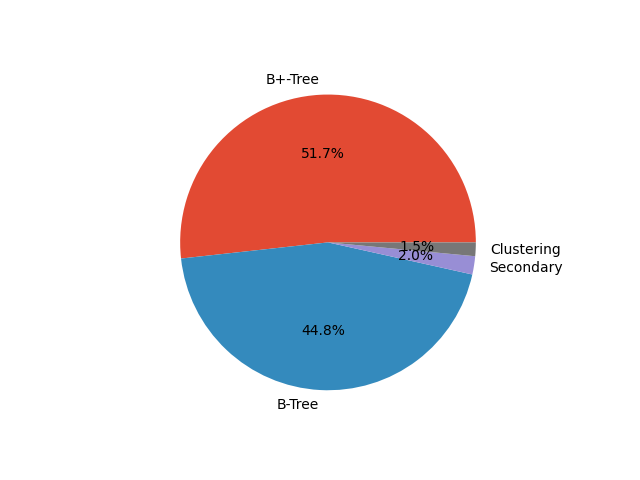
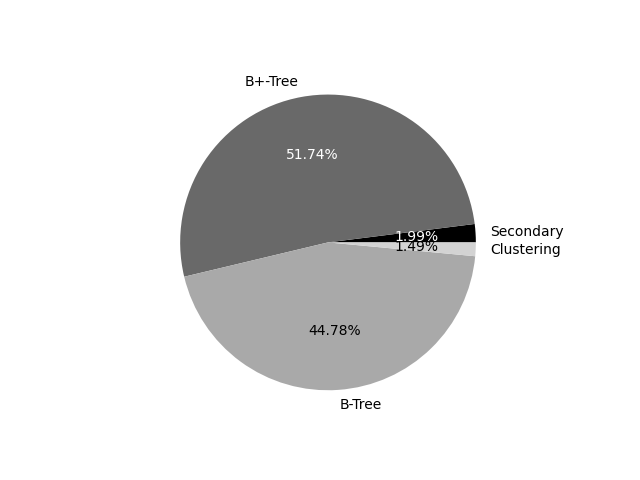
changing pie chart

Changed region(s): [[0.2812, 0.1562, 0.875, 0.875]]

diff --git a/data_analysis.py b/data_analysis.py
@@ -209,10 +209,10 @@ def all_data_analysis():
     more_bplus_time = df_b["B+ Execution Time (ms)"]
     first = mean(bplus_time)
     second = mean(more_bplus_time)
-    print(f"Overall B+ Execution time: {mean([first, second])}")
+    # print(f"Overall B+ Execution time: {mean([first, second])}")
 
     fastest = df["Fastest Approach"]
-    labels = ["B+-Tree","B-Tree","Sequential","Secondary","Clustering"]
+    labels = ["Sequential","Secondary","B+-Tree","B-Tree","Clustering"]
     frequency = [0,0,0,0,0]
     for result in fastest:
         idx = labels.index(result)
@@ -221,23 +221,39 @@ def all_data_analysis():
         labels.remove(labels[frequency.index(0)])
         frequency.remove(0)
 
-    plt.style.use("ggplot")
-    plt.pie(frequency, labels=labels, autopct='%1.1f%%')
-    plt.savefig("./comparison-results/fastest.png")
 
-    labels = []
-    frequency = []
+    __, __, autotexts = plt.pie(frequency, labels=labels, autopct= '%1.2f%%', colors=["black","dimgray","darkgray","lightgray"])
+    for autotext in autotexts[:2]:
+        autotext.set_color('white')
+    plt.savefig("./comparison-results/fastest.png")
+    plt.clf()
+
+    labels = ["Sequential", "B+-Tree/B-Tree", "Clustering/Secondary"]
+    frequency = [0,0,0]
     best_scoring = df["Best Scoring Approach"]
     for result in best_scoring:
-        if result not in labels:
-            labels.append(result)
-            frequency.append(0)
-        frequency[labels.index(result)] += 1
-    for i, label in enumerate(labels):
-        percent = (frequency[i] / sum(frequency)) * 100
-        rounded_percent = round(percent, 2)
-        labels[i] = f"{label} ({rounded_percent}%)"
-    plt.clf()
-    plt.pie(frequency)
-    plt.legend(labels, loc="lower left")
-    plt.savefig("./comparison-results/best_score.png")
+        if result == "All":
+            frequency[0] += 1
+            frequency[1] += 1
+            frequency[2] += 1
+        if "Sequential" in result:
+            frequency[0] += 1
+        if "B+-Tree/B-Tree" in result:
+            frequency[1] += 1
+        if "Secondary/Clustering" in result:
+            frequency[2] += 1
+    #     if result not in labels:
+    #         labels.append(result)
+    #         frequency.append(0)
+    #     frequency[labels.index(result)] += 1
+    # for i, label in enumerate(labels):
+    #     percent = (frequency[i] / sum(frequency)) * 100
+    #     rounded_percent = round(percent, 2)
+    #     labels[i] = f"{label} ({rounded_percent}%)"
+    print(labels)
+    print(frequency)
+    plt.bar(labels, frequency)
+    plt.show()
+    # plt.savefig("./comparison-results/best_score.png")
+
+all_data_analysis()
